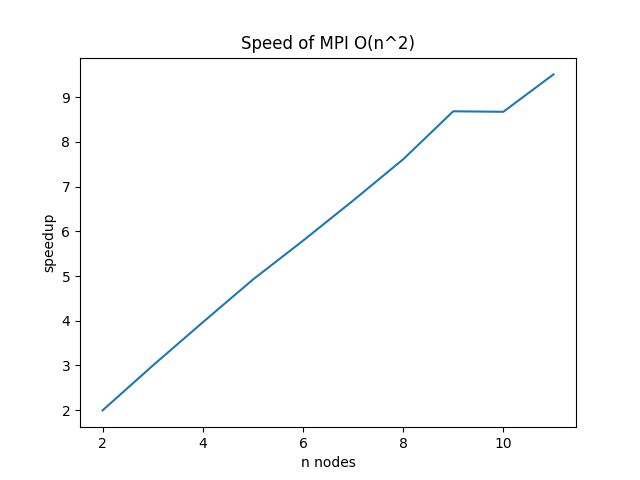
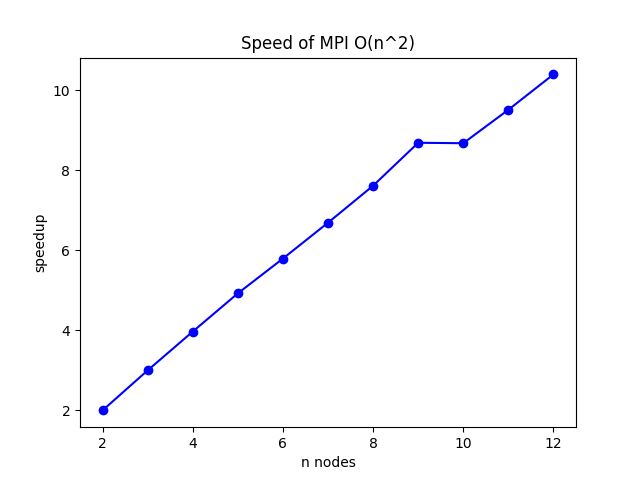
fix bug

diff --git a/draw.py b/draw.py
@@ -25,7 +25,7 @@ def draw_speedup(sequential_path: str,
     print(speedup)
 
     plt.figure()
-    plt.plot(parallel_outputs, speedup)
+    plt.plot(parallel_outputs, speedup, 'bo-')
     plt.xlabel(xlabel)
     plt.ylabel(ylabel)
     plt.title(title)
@@ -35,7 +35,7 @@ if __name__ == "__main__":
     draw_speedup("./n2_sequential/1node-1-cpt-1-npn-snowy.out",
                  "./n2_openmpi/",
                  "node-1-cpt-1-npn-snowy.out",
-                 [i for i in range(2, 12)],
+                 [i for i in range(2, 13)],
                  title="Speed of MPI O(n^2)",
                  xlabel="n nodes",
                  ylabel="speedup"

diff --git a/n2_hybrid/n2_hybrid.cpp b/n2_hybrid/n2_hybrid.cpp
@@ -190,7 +190,7 @@ int main(int argc, char **argv) {
     #pragma omp parallel
     {
         if (omp_get_thread_num() == 0) {
-            cout << "#threads used = " MM n_threads << end;
+            cout << "#threads used = " << n_threads << end;
         }
     }
 
